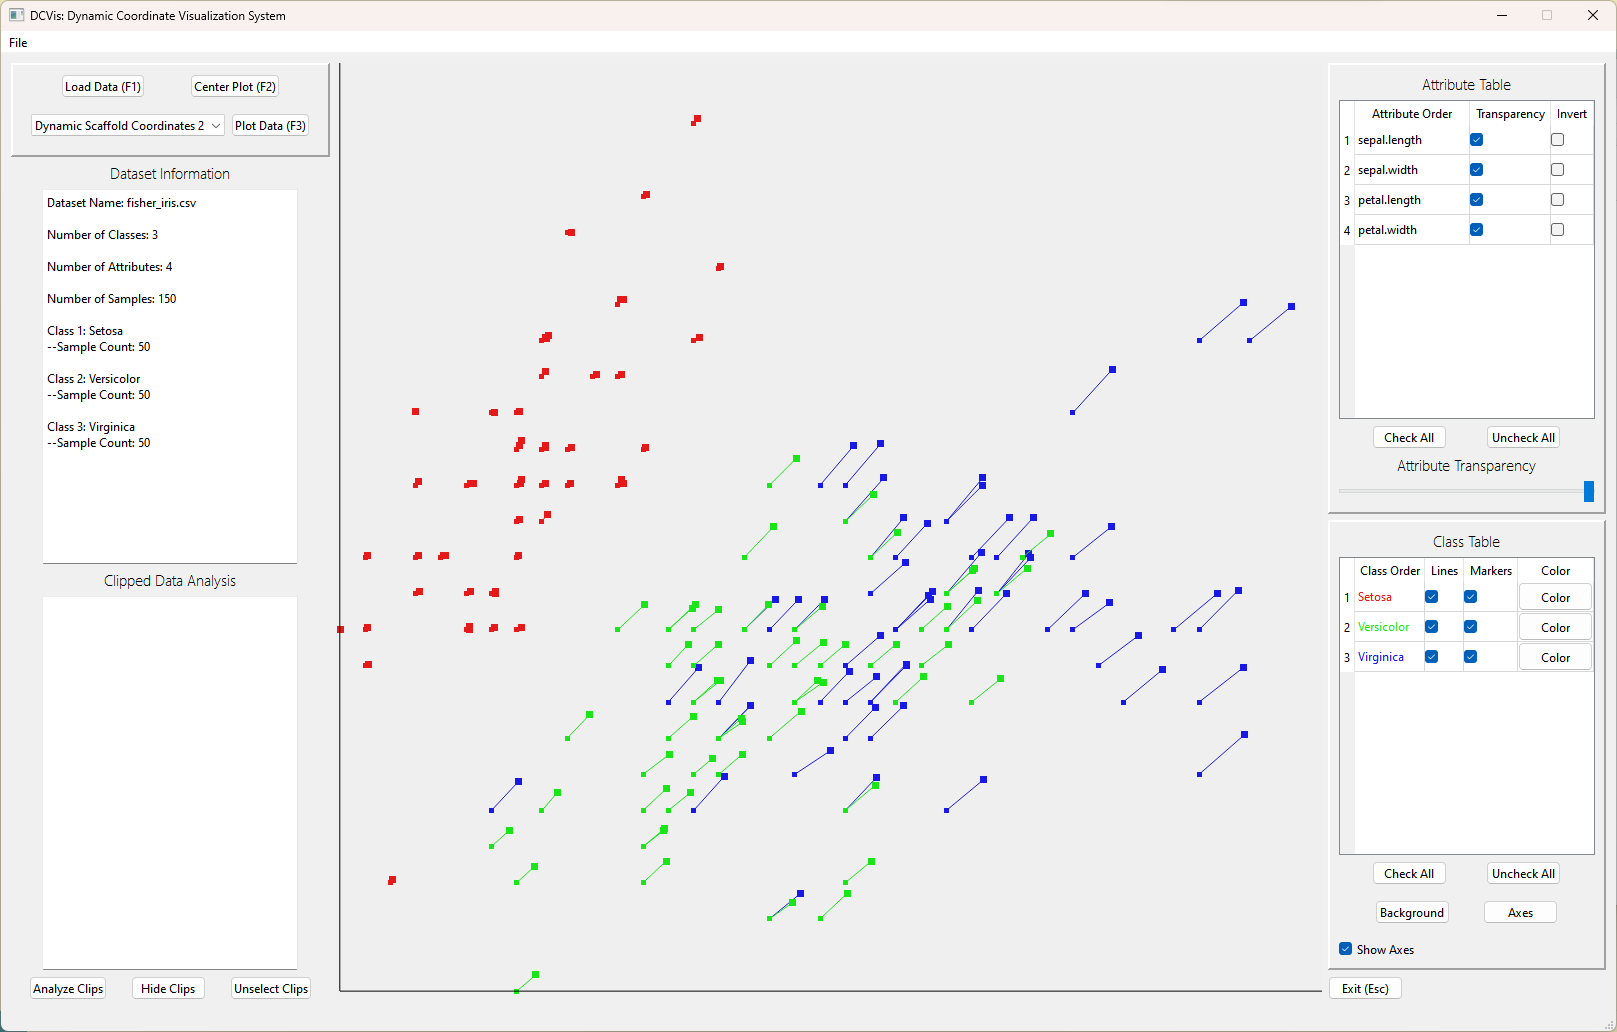
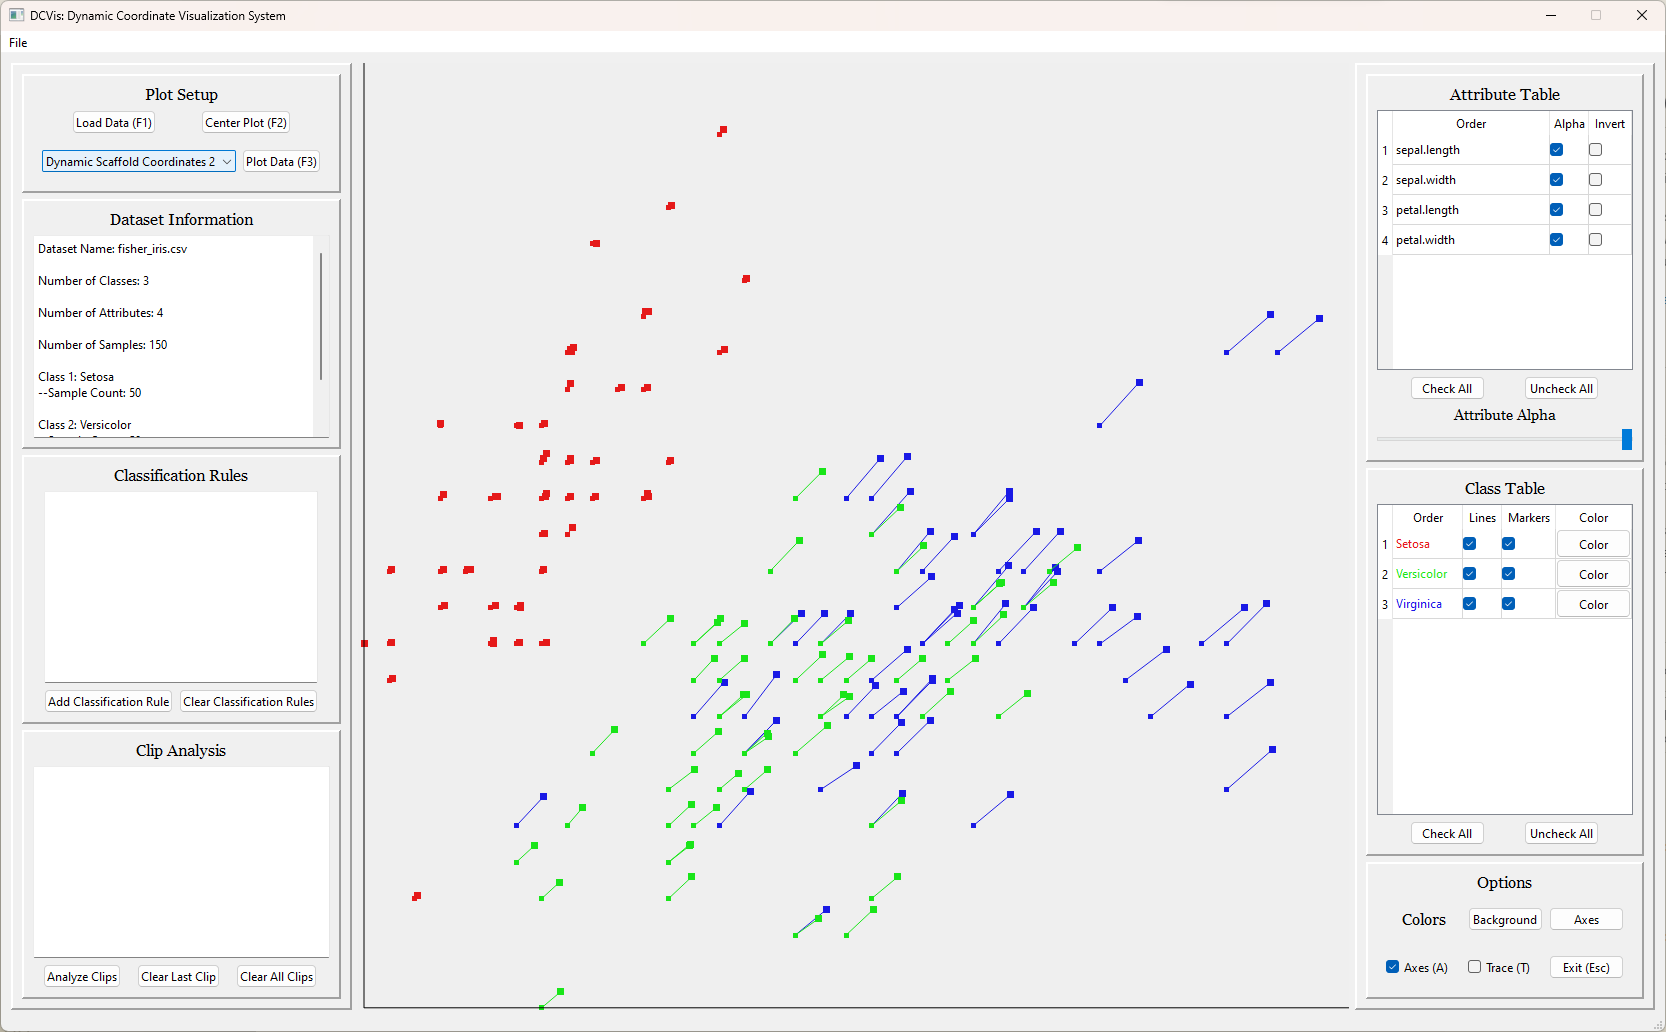
README update, bugfixes

diff --git a/PLOT.py b/PLOT.py
@@ -147,15 +147,20 @@ def draw_curves(data, line_vao, marker_vao, radius):
                     if h > data.attribute_count or data.clear_samples[size_index + datapoint_count]:
                         continue
 
-                    if not data.trace_mode:
-                        color = shift_hue(data.class_colors[class_index], hue_shift_amount) if (h == data.class_count - 1) else shift_hue(data.class_colors[class_index], 0)
-                    else:
+                    # Apply hue shift, especially for the last attribute of each sample
+                    if data.trace_mode:
                         color = shift_hue(data.class_colors[class_index], hue_shift_amount)
-                        hue_shift_amount += 0.02
+                        hue_shift_amount += 0.02  # Increase hue shift for each attribute or sample
+                    elif h == data.attribute_count - 1:
+                        color = shift_hue(data.class_colors[class_index], 0.1)  # Apply a hue shift for the last attribute
+                    else:
+                        color = shift_hue(data.class_colors[class_index], 0)  # No hue shift if not the last attribute or not in trace mode
+                        
                     glColor4ub(color[0], color[1], color[2], data.attribute_alpha - sub_alpha if data.active_attributes[h] else 255 - sub_alpha)
 
                     start, end = data.positions[class_index][j + h - 1], data.positions[class_index][j + h]
                     control1, control2 = calculate_cubic_bezier_control_points(start, end, radius, data.attribute_count, is_inner, class_index)
+                    # Pass the adjusted hue color as a parameter if your drawing function supports it
                     draw_cubic_bezier_curve(start, control1, control2, end, is_inner, data.attribute_count)
                     
                     angle = calculate_angle(end[0], end[1])
@@ -174,23 +179,23 @@ def draw_curves(data, line_vao, marker_vao, radius):
                 extended_endest = (endest[0] * mult, endest[1] * mult)
                 draw_radial_line((0, 0), extended_endest)
 
+        # Draw markers with adjusted positions and hue for inner classes
         if data.active_markers[class_index]:
             for j in range(data.vertex_count):
                 glBindVertexArray(marker_vao[class_index * data.vertex_count + j])
-                color = shift_hue(data.class_colors[class_index], 0)
+                color = shift_hue(data.class_colors[class_index], 0)  # Adjust if needed for markers
+                
                 glColor4ub(color[0], color[1], color[2], data.attribute_alpha if data.active_attributes[j] else 255)
                 
-                # Adjust marker positions for inner classes
                 if is_inner:
+                    # Adjust marker positions for inner classes, potentially using last attribute for hue shift
                     for pos_index in range(0, len(data.positions[class_index]), data.vertex_count):
                         position = data.positions[class_index][pos_index + j]
                         adjusted_position = adjust_point_towards_center(position, data.attribute_count)
-                        # Draw each adjusted marker
                         glBegin(GL_POINTS)
                         glVertex2f(*adjusted_position)
                         glEnd()
                 else:
-                    # Draw all markers without adjustment
                     glDrawArrays(GL_POINTS, 0, int(len(data.positions[class_index]) / data.vertex_count))
                     
                 glBindVertexArray(0)
@@ -233,7 +238,7 @@ def draw_highlighted_curves(dataset, line_vao, marker_vao, radius):
                             end = adjust_point_towards_center(end)
 
                         control1, control2 = calculate_cubic_bezier_control_points(start, end, radius, dataset.attribute_count, is_inner, class_index)
-                        draw_cubic_bezier_curve(start, control1, control2, end, False)  # False to not pull inwards twice, hacky fix
+                        draw_cubic_bezier_curve(start, control1, control2, end, False, dataset.attribute_count)  # False to not pull inwards twice, hacky fix
                 datapoint_count += 1
             
             glBindVertexArray(0)

diff --git a/README.md b/README.md
@@ -1,25 +1,60 @@
 # DCVis: Dynamic Coordinate Visualisation System
 
-## About DCVis
+DCVis is a research project to build visual machine learning models with multidimensional visualizations and interactive classification tools.  
+Techniques being ported to C for improved performance with [CVis](https://github.com/CWU-VKD-LAB/CVis).  
 
-DCVis is an interactive visualization application for building machine learning models by visual exploration. Techniques being ported to C for improved performance with [CVis](https://github.com/CWU-VKD-LAB/CVis).  
-
-This work is established by Dr. Boris Kovalerchuk and the Visual Knowledge Discovery and Imaging Lab of Central Washington University. We are greatly inspired by Dr. Alfred Inselberg who invented Parallel Coordinates.  
-
-This software applies Visual Knowledge Discovery techniques which use dynamic tools to build machine learning models which are inherently explainable and interpretable using visual analytics.  
+Contributors: Alice Williams, James Battistoni, Charles Recaido  
+at Central Washington University Visual Knowledge Discovery Lab  
+on projects by Dr. Boris Kovalerchuk during years 2022 to 2024.  
 
 *This software is a rewrite of [DSCVis](https://github.com/Charles57-CWU/DSCVis) to support newly developed tooling features.*  
 
-## DCVis Features
+## Software Features
 
 - Visualize multi-dimensional numerical data (.csv or .txt file) in 2D visualizations using OpenGL for GPU rendering.  
 - Plot can be interacted with, panning around, zooming in/out, configuring view options, and exploring data interactively.  
 - Data may be highlighted with dual-right click clipping, analyzed, and exported or hidden for further analysis.  
 - Classification rules can be built from clipped samples.
-- Axes can be inverted to find improved n-D data patterns.
+- Axes can be inverted to further find n-D data patterns.
 - For building visual machine learning models using rules-based classification. Combining and chaining rules to produce classifiers for future data.
+- Background, class, and axes colors are each configurable.
+- Axes can be shown or hidden.
+- Trace mode alternates colors for visual tracing.
 
-## Visualization Methods
+## Controls
+
+- scroll-wheel click and drag on plot to pan the plot.
+- Scroll the mouse wheel to zoom in/out of the plot.
+- Right click twice to make a box clipping rectangle. The 1st right click is the upper right corner, and the 2nd right click is the bottom left corner.
+- Left click to pick up single point of sample(s).
+- Q and E keys to cycle currently selected sample(s).
+- Clipped samples are highlighted, 'Hide Clips' button will suppress clipped samples from being drawn, 'Remove Clips' button will restore.
+- The cells in the class and attribute tables can be dragged and dropped to switch their orders.
+- The slider below the attribute table will change the transparency of the attribute markers that are not selected in the highlight column.
+- Hotkeys listed next to user interface elements.
+
+## Datasets included
+
+- Fisher Iris of flower measurements -- 150 samples, 4 features, 3 classes
+- Breast Cancer Wisconsin diagnostics -- 569 samples, 30 features, 2 classes
+- Diabetes diagnostics -- 768 samples, 8 features, 2 classes
+- Heart Disease diagnostics -- 1,025 samples, 13 features, 2 classes
+- Ionosphere atmosphere readings -- 351 samples, 34 features, 2 classes (some empty cells)
+- MNIST Capital Letters handwriting -- 20,000 samples, 16 features, 26 classes
+- Sinusoidal wave samplings -- 200 samples, 2 features, 2 classes
+- Wheat Seed variety measurements -- 210 samples, 7 features, 3 classes
+- Wine chemical analysis measurements -- 4,898 samples, 11 features, 7 classes
+- Artificial testing datasets which exhibit various properties of visualizations.
+
+## Dataset requirements
+
+- Format of .txt or .csv
+- Header row required
+- One label column denoted 'class' in header
+- Any number of feature columns attribute name in header
+- Features must be numerical data
+
+## Visualizations Supported
 
 Generalized vertex class included for adding visualization methods.  
 This visualization tool features multiple visualisation methods:
@@ -35,57 +70,5 @@ Attributes may be inverted to further engineer visualized features.
 Iris in SPC with X1, X2 inverted:
 ![SPC inverted](/screenshots/SPC_INVERT_X1_X2.png)
 
-## Datasets
-
-Dataset requirements:
-
-- Format of .txt or .csv
-- Header row required
-- One label column denoted 'class' in header
-- Any number of feature columns attribute name in header
-- Features must be numerical data
-
-Datasets included:
-
-- Fisher Iris of flower measurements -- 150 samples, 4 features, 3 classes
-- Breast Cancer Wisconsin diagnostics -- 569 samples, 30 features, 2 classes
-- Diabetes diagnostics -- 768 samples, 8 features, 2 classes
-- Heart Disease diagnostics -- 1,025 samples, 13 features, 2 classes
-- Ionosphere atmosphere readings -- 351 samples, 34 features, 2 classes (some empty cells)
-- MNIST Capital Letters handwriting -- 20,000 samples, 16 features, 26 classes
-- Sinusoidal wave samplings -- 200 samples, 2 features, 2 classes
-- Wheat Seed variety measurements -- 210 samples, 7 features, 3 classes
-- Wine chemical analysis measurements -- 4,898 samples, 11 features, 7 classes
-- Artificial testing datasets which exhibit various properties of visualizations.
-
-## Program Features
-
-- scroll-wheel click and drag on plot to pan the plot.
-- Scroll the mouse wheel to zoom in/out of the plot.
-- Right click twice to make a box clipping rectangle. The 1st right click is the upper right corner, and the 2nd right click is the bottom left corner.
-- Left click to pick up single point of sample(s).
-- Q and E keys to cycle currently selected sample(s).
-- Clipped samples are highlighted, 'Hide Clips' button will suppress clipped samples from being drawn, 'Remove Clips' button will restore.
-- The cells in the class and attribute tables can be dragged and dropped to switch their orders.
-- The slider below the attribute table will change the transparency of the attribute markers that are not selected in the highlight column.
-
 Iris in PC with Setosa class highlighted and alpha brushing effect:
 ![Classify Setosa](/screenshots/IRIS_SETOSA_CLASSIFY.png)
-
-## Language and Libraries
-
-Written in Python using 3.11 with the libraries:
-pyopengl wheel pyopengl-accelerate pyqt6 numpy pandas scikit-learn
-
-QTDesigner used for .UI file design used by PyQt6.
-
-See `requirements.txt` for the development environment libraries listing.
-
-## Project History
-
-- Continuation of a [CS Masters Project at CWU](https://github.com/Charles57-CWU/DSCVis).
-- Rebuild of former research [lab project](https://github.com/CWU-VKD-LAB/DCVis).
-- Now built on a refactored MVC architecture with precise zoom & panning controls.
-
-Authors working on this project: Alice Williams, James Battistoni, and Charles Recaido.
-
